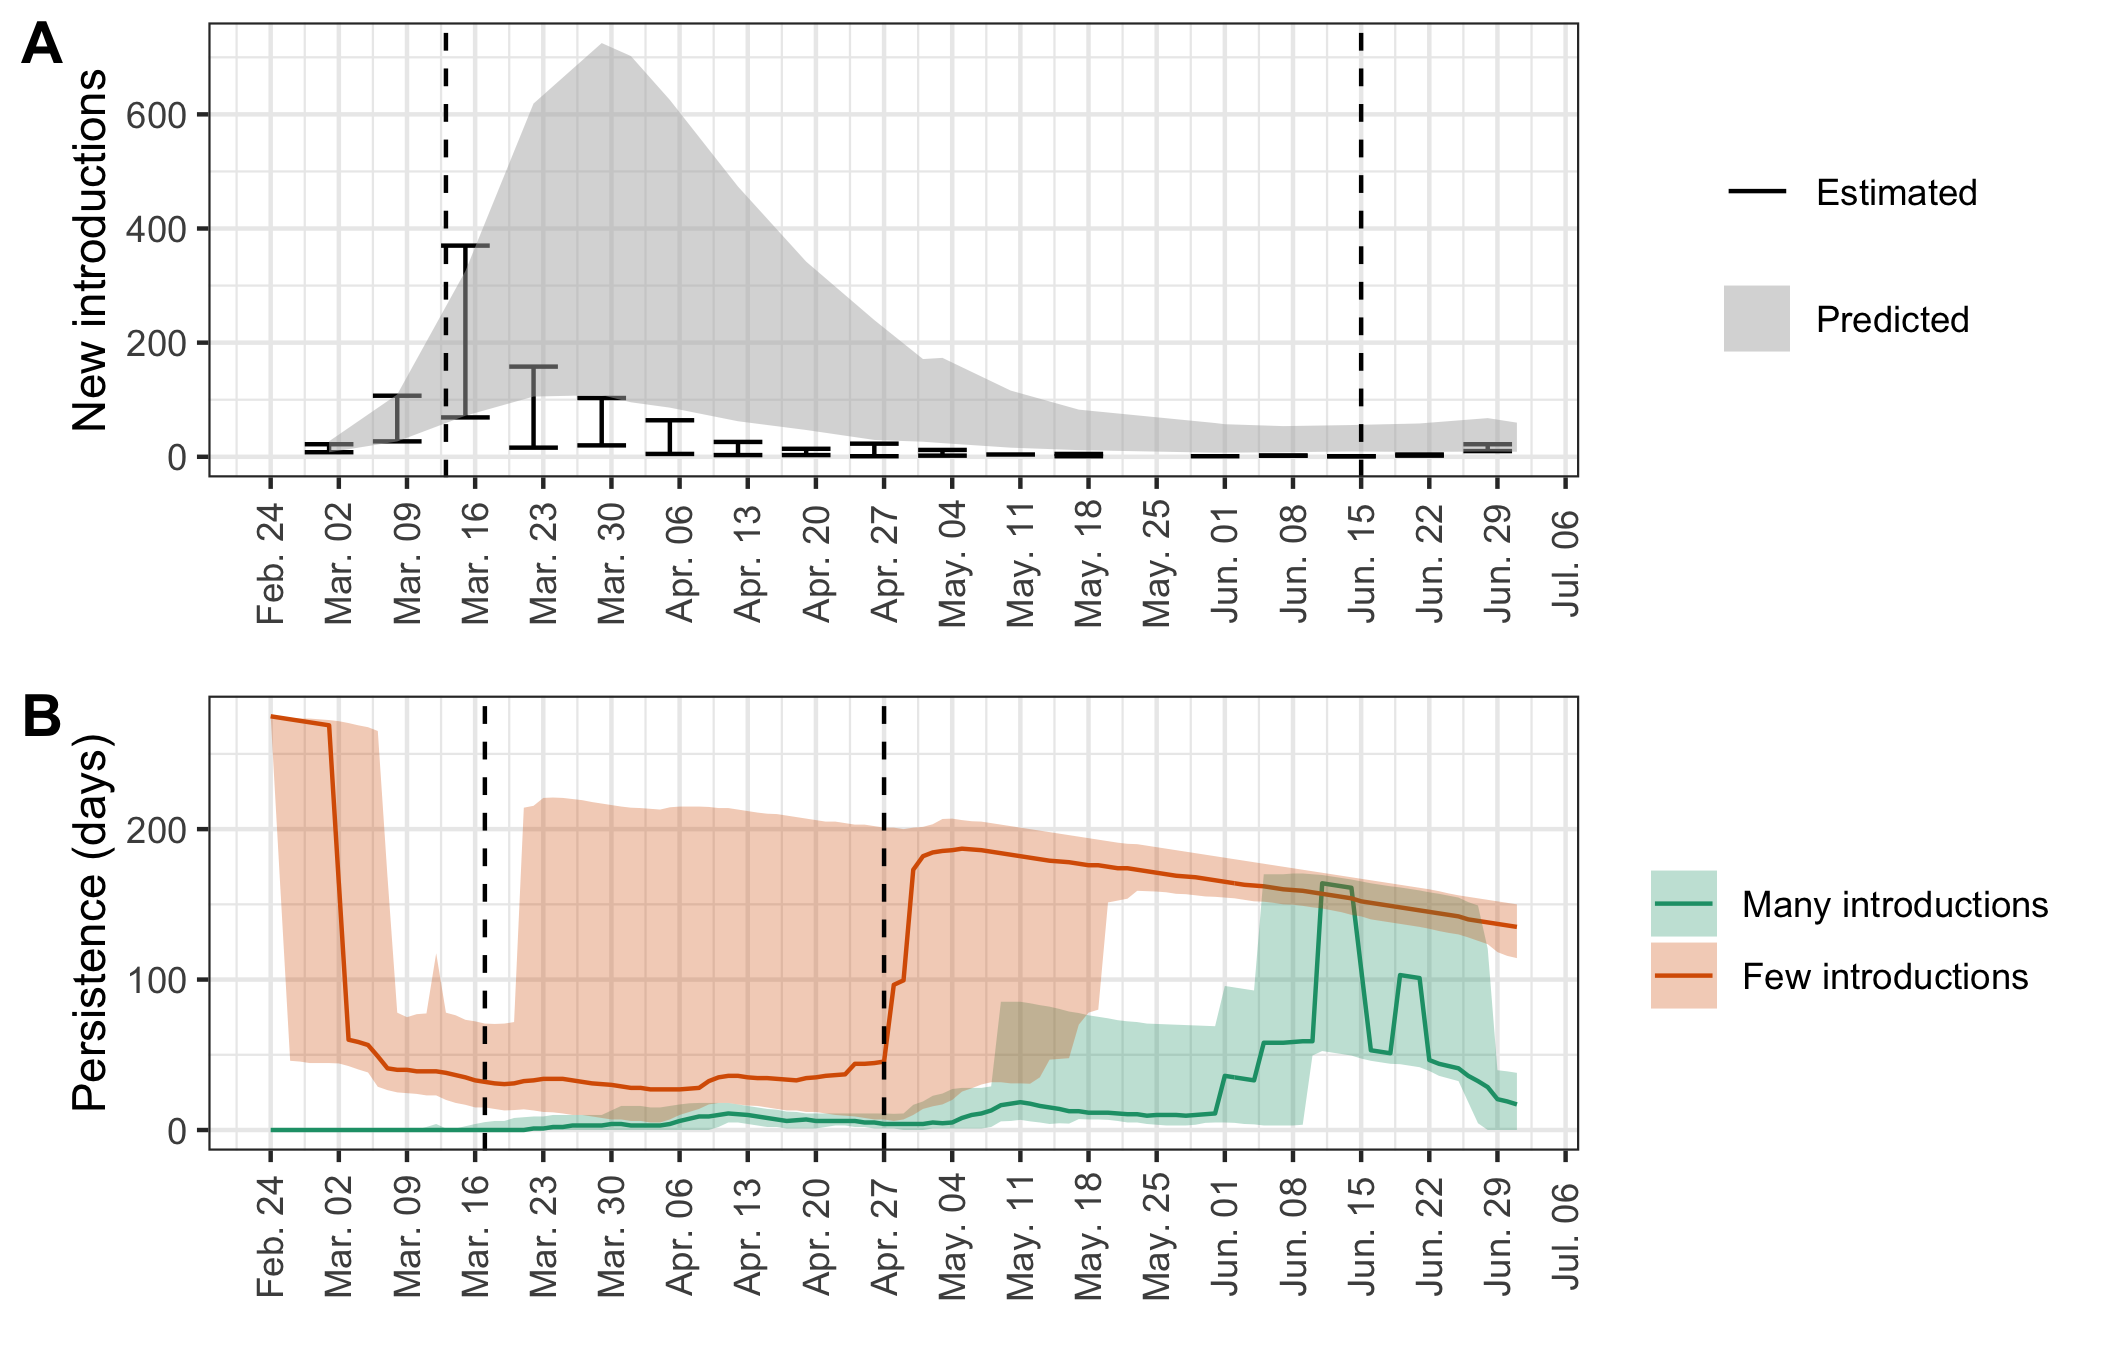
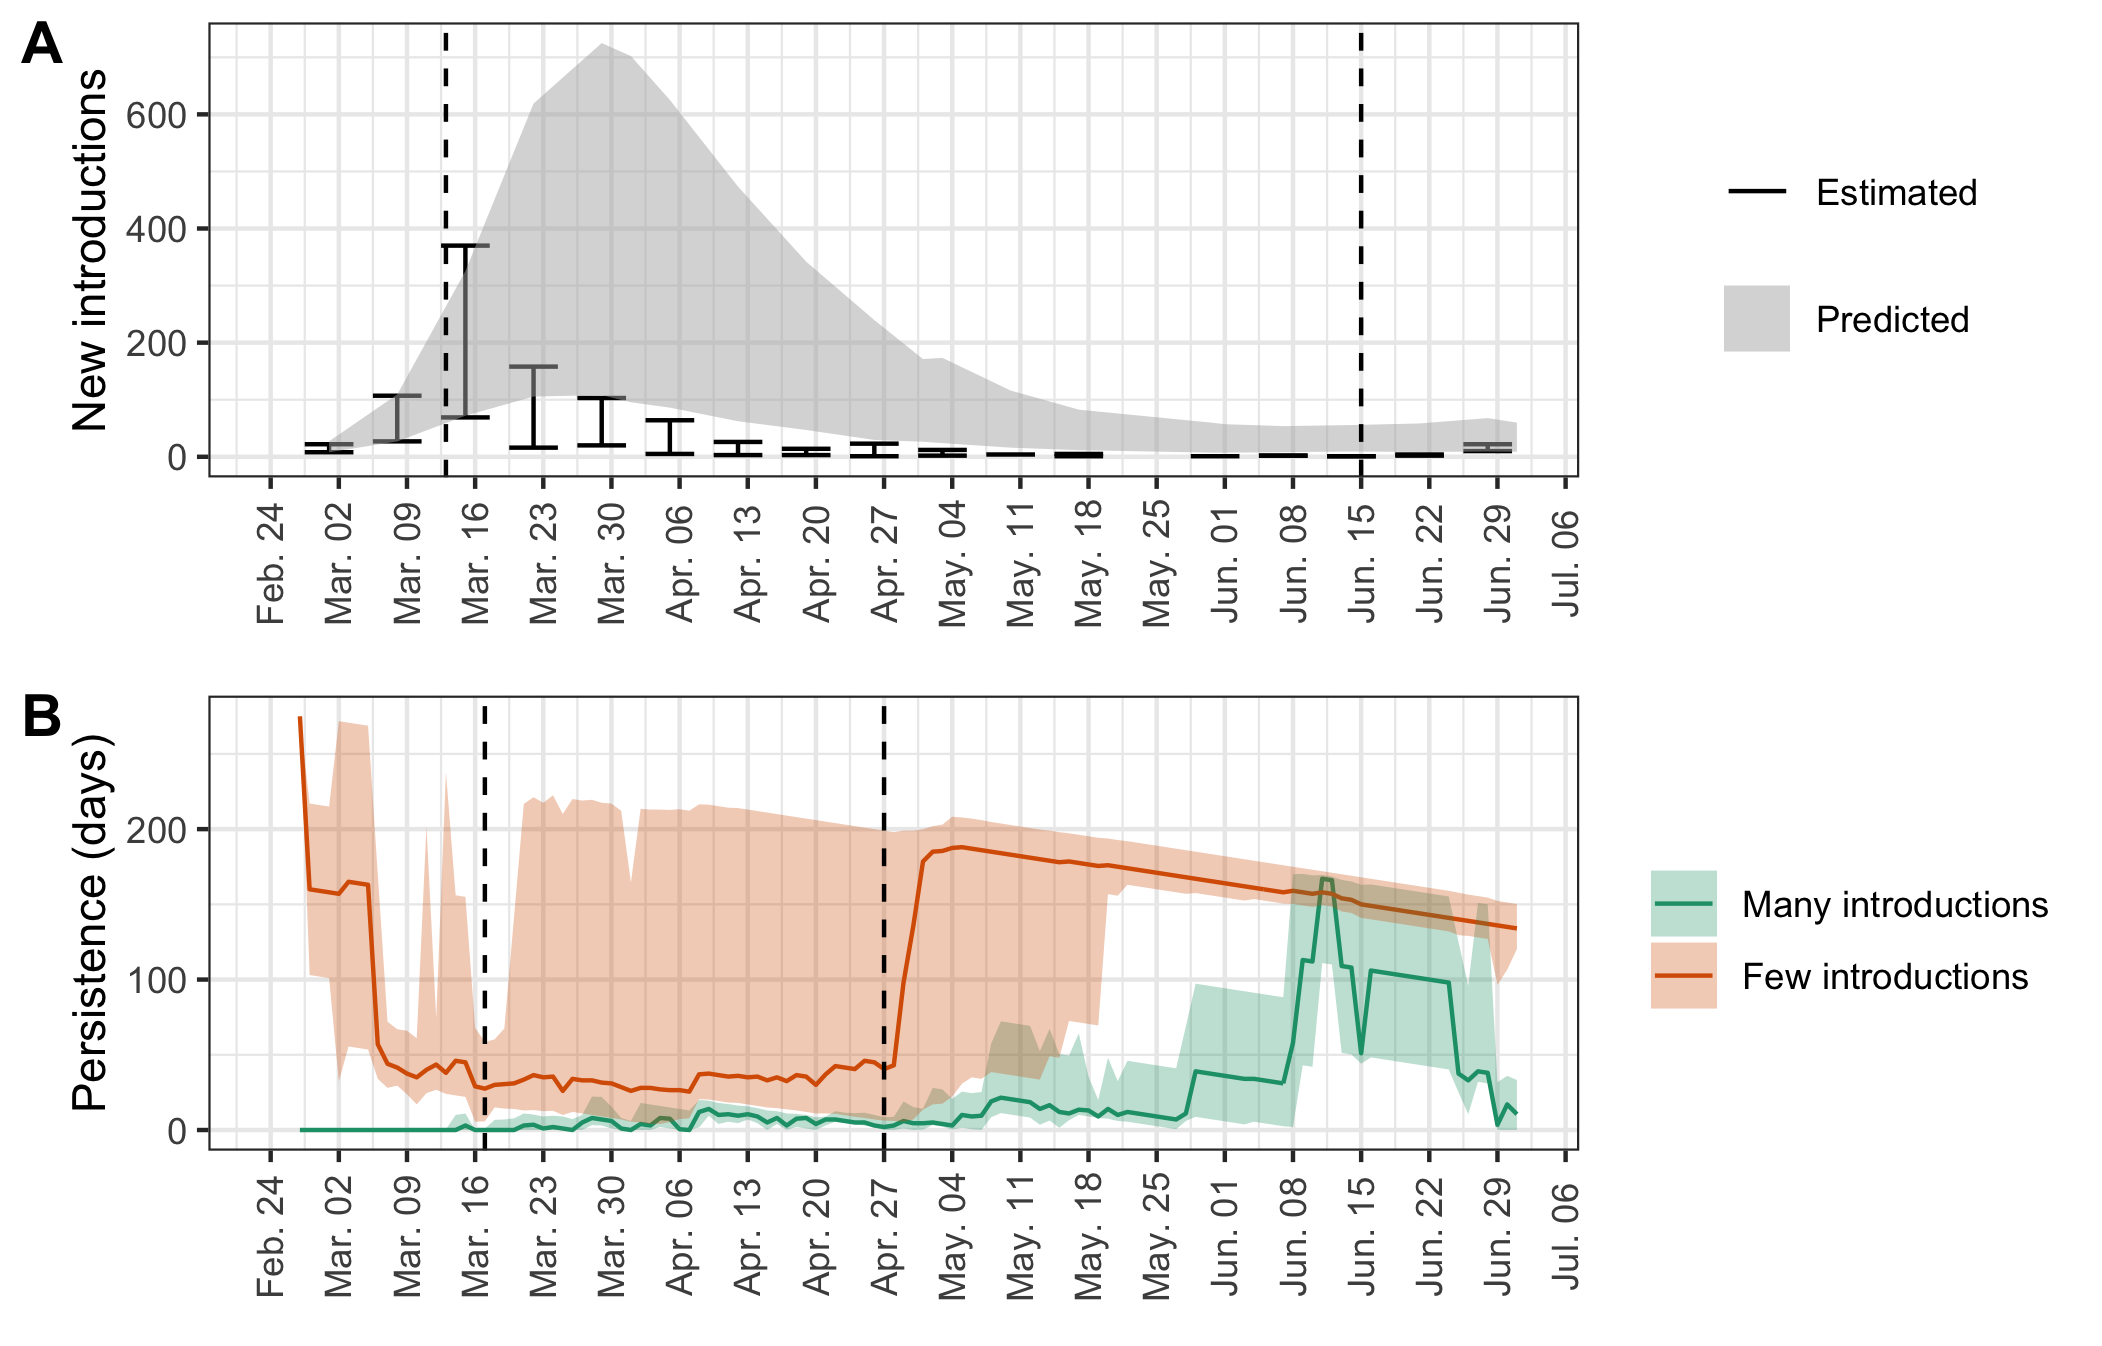
remove smoothing for persistence estimates

diff --git a/manuscript/persistence.tex b/manuscript/persistence.tex
@@ -1,12 +1,12 @@
-\newcommand\medpersistenceatlockdownmin{32}
+\newcommand\medpersistenceatlockdownmin{27.5}
 \newcommand\medpersistenceatlockdownmax{0}
-\newcommand\qonepersistenceatlockdownmin{15}
+\newcommand\qonepersistenceatlockdownmin{5.75}
 \newcommand\qonepersistenceatlockdownmax{0}
-\newcommand\qthreepersistenceatlockdownmin{70.75}
-\newcommand\qthreepersistenceatlockdownmax{5.25}
-\newcommand\medpersistenceatpeakmin{173}
-\newcommand\medpersistenceatlockdownmax{0}
-\newcommand\qonepersistenceatpeakmin{159}
-\newcommand\qonepersistenceatpeakmax{52.5}
-\newcommand\qthreepersistenceatpeakmin{190}
+\newcommand\qthreepersistenceatlockdownmin{58.5}
+\newcommand\qthreepersistenceatlockdownmax{1}
+\newcommand\medpersistenceatpeakmin{174}
+\newcommand\medpersistenceatpeakmax{167}
+\newcommand\qonepersistenceatpeakmin{163}
+\newcommand\qonepersistenceatpeakmax{111}
+\newcommand\qthreepersistenceatpeakmin{192}
 \newcommand\qthreepersistenceatpeakmax{169.5}
